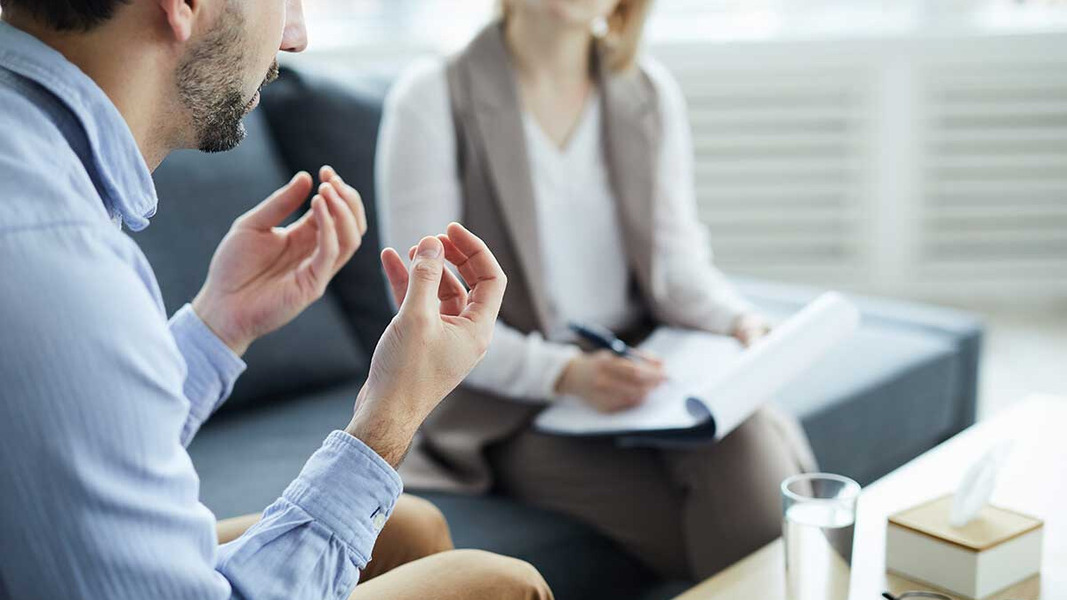
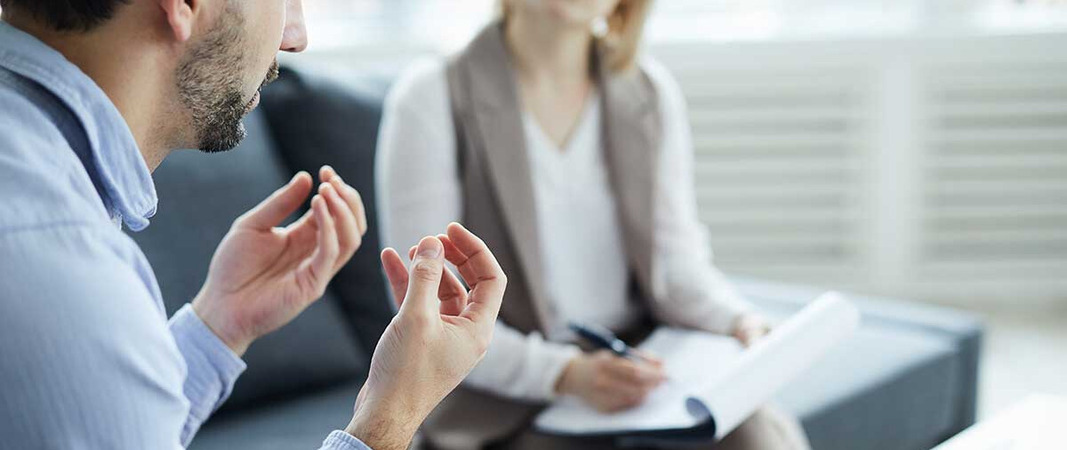
Actualizacion de carousel en mobile y desktop

diff --git a/index.html b/index.html
@@ -57,13 +57,13 @@
         <div id="carouselMain" class="carousel slide carousel-fade">
             <div class="carousel-inner">
                 <div class="carousel-item active">
-                    <img src="./image/Index-Banner-1.jpg" class="d-block w-100" alt="Paciente hablando con psicologo">
+                    <img src="./image/Index-Banner-1.jpg" class="d-block w-100 banner" alt="Paciente hablando con psicologo">
                 </div>
                 <div class="carousel-item">
-                    <img src="./image/Index-Banner-2.png" class="d-block w-100" alt="Dibujo paciente conversando con psicologo">
+                    <img src="./image/Index-Banner-2.png" class="d-block w-100 banner" alt="Dibujo paciente conversando con psicologo">
                 </div>
                 <div class="carousel-item">
-                    <img src="./image/Index-Banner-3.jpg" class="d-block w-100" alt="Paciente hablando de sus temores">
+                    <img src="./image/Index-Banner-3.jpg" class="d-block w-100 banner" alt="Paciente hablando de sus temores">
                 </div>
             </div>
             <button class="carousel-control-prev" type="button" data-bs-target="#carouselMain" data-bs-slide="prev">

diff --git a/css/style.css b/css/style.css
@@ -101,14 +101,9 @@ main {
 }
 
 .slide {
-  margin: 0 25px;
-  height: 600px;
-  overflow: hidden;
+  margin: 0 50px;
   border-radius: 25px;
-}
-.slide .carousel-inner div img {
-  height: 100%;
-  object-fit: cover;
+  overflow: hidden;
 }
 
 section .contenMessage {
@@ -415,6 +410,11 @@ section .containerIsapres .isapre img:hover {
     transform: scale(1, 1);
   }
   /* Index */
+  .slide {
+    margin: 0 20px;
+    border-radius: 25px;
+    overflow: hidden;
+  }
   section .contenMessage {
     margin: 50px 25px;
   }

diff --git a/sass/partials/_pages.scss b/sass/partials/_pages.scss
@@ -14,18 +14,9 @@ main{
 }
 
 .slide{
-    margin: 0 25px;
-    height: 600px;
-    overflow: hidden;
+    margin: 0 50px;
     border-radius: 25px;
-    .carousel-inner{
-        div{
-            img{
-                height: 100%;
-                object-fit: cover;
-            }
-        }
-    }
+    overflow: hidden;
 }
 
 section{

diff --git a/sass/partials/_mediaQuery.scss b/sass/partials/_mediaQuery.scss
@@ -25,6 +25,12 @@
     }
 
     /* Index */
+    .slide{
+        margin: 0 20px;
+        border-radius: 25px;
+        overflow: hidden;
+    }
+
     section .contenMessage{
         margin: 50px 25px;
         .message{
